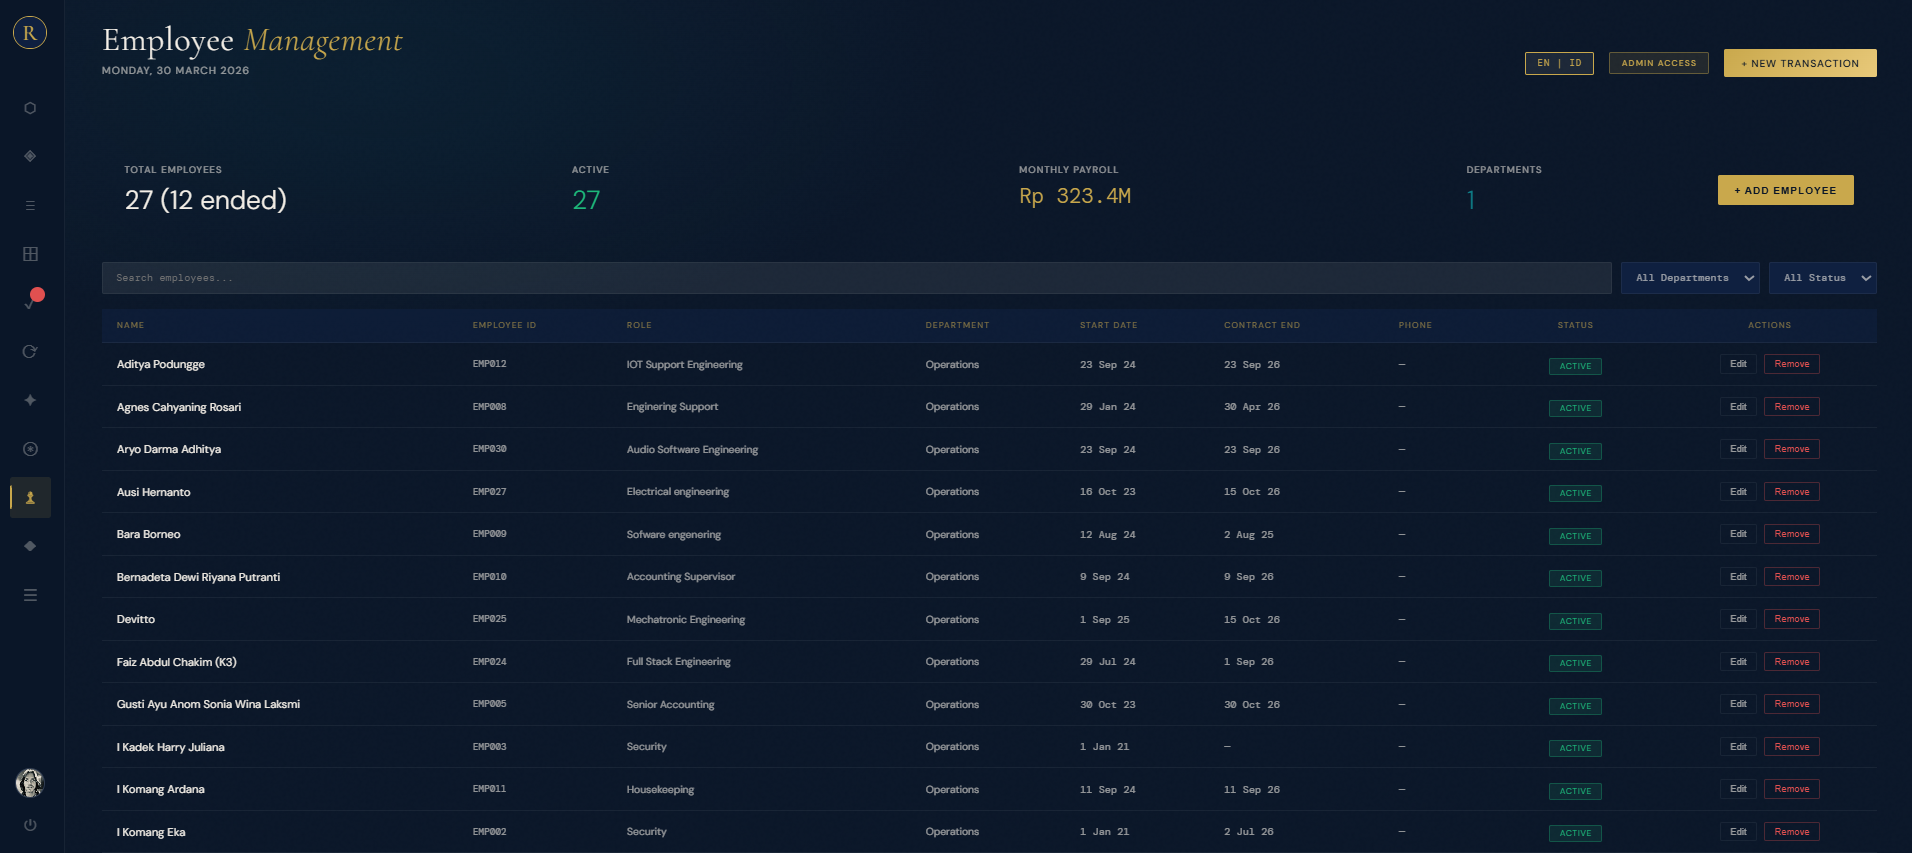
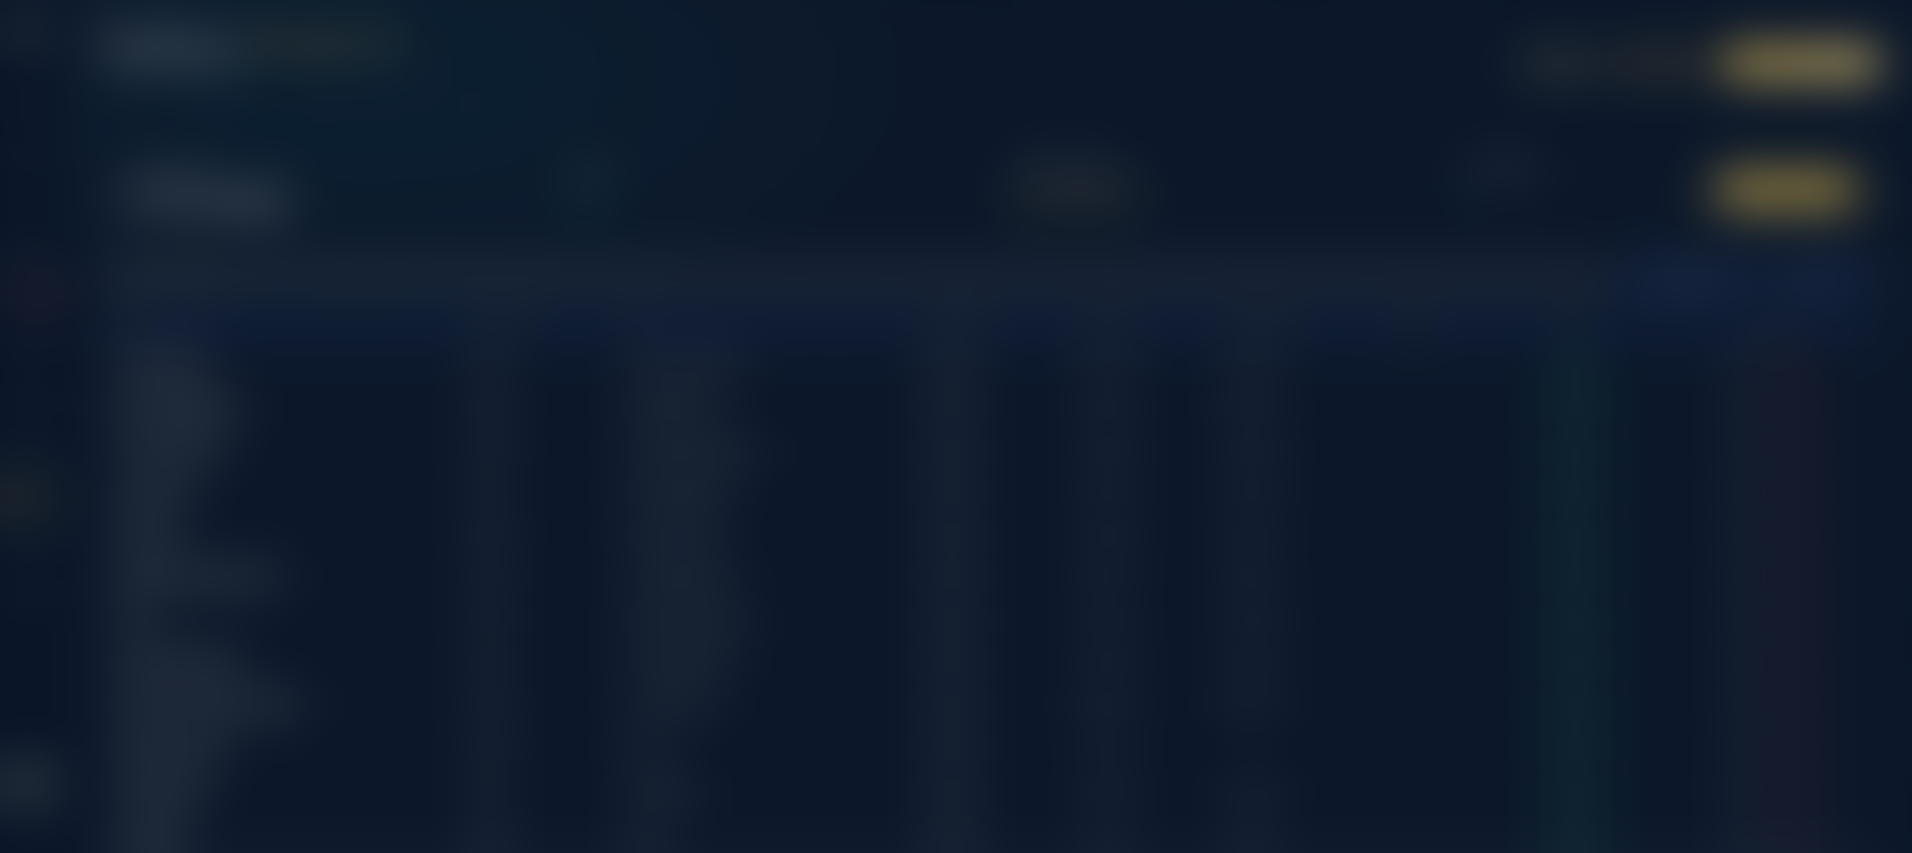
Anonymize hero images and keep About team-focused
Hero images now safe for public:
- bg-dashboard.png: heavy Gaussian blur (r=18). Original leaked
  employee names, IDs, and department details. Blurred version
  retains the navy+gold dashboard atmosphere but no text legible.
- bg-opex.png: blurred (r=12) for the same reason. Original showed
  real IDR line-item amounts. Blurred version keeps the chart
  shape as texture.
- bg-workflow.png: deleted entirely. No longer referenced anywhere,
  and the original n8n screenshot contained a red error popup plus
  real-looking bank account names and balances.

Revert About pages back to team-focused copy (EN + ID). Public
About stays about the collective team, not a named individual.
The separate /barrie/ page remains available for private sharing
when a personal intro is warranted.

diff --git a/about/index.html b/about/index.html
@@ -93,52 +93,6 @@
             line-height: 1.7;
         }
 
-        /* Founder block */
-        .founder-block {
-            display: grid;
-            grid-template-columns: 1fr;
-            gap: 40px;
-            align-items: center;
-            max-width: 920px;
-            margin: 0 auto;
-        }
-
-        .founder-media {
-            justify-self: center;
-        }
-
-        .founder-portrait {
-            width: 240px;
-            height: 240px;
-            border-radius: 50%;
-            object-fit: cover;
-            border: 3px solid rgba(201, 168, 76, 0.3);
-            box-shadow: 0 12px 32px rgba(26, 26, 46, 0.12);
-        }
-
-        .founder-body h2 {
-            margin-bottom: 12px;
-        }
-
-        .founder-tagline {
-            font-family: var(--font-display);
-            font-style: italic;
-            font-size: clamp(18px, 2vw, 22px);
-            color: var(--ink-heading);
-            margin-bottom: 24px;
-        }
-
-        .founder-body p {
-            font-size: clamp(16px, 1.6vw, 18px);
-            line-height: 1.85;
-            color: var(--ink);
-            margin-bottom: 20px;
-        }
-
-        .founder-body p:last-child {
-            margin-bottom: 0;
-        }
-
         @media (min-width: 600px) {
             .approach-grid {
                 grid-template-columns: 1fr 1fr;
@@ -149,18 +103,6 @@
         @media (min-width: 900px) {
             .approach-grid {
                 grid-template-columns: repeat(4, 1fr);
-            }
-            .founder-block {
-                grid-template-columns: 260px 1fr;
-                gap: 56px;
-                align-items: start;
-            }
-            .founder-media {
-                justify-self: start;
-            }
-            .founder-portrait {
-                width: 260px;
-                height: 260px;
             }
         }
     </style>
@@ -267,21 +209,17 @@
         </div>
     </section>
 
-    <!-- ==== FOUNDER ==== -->
+    <!-- ==== OUR TEAM ==== -->
     <section class="section section--paper">
         <div class="container">
-            <div class="founder-block reveal">
-                <div class="founder-media">
-                    <img src="../images/founder.jpg" alt="Barrie Elsden, Founder of Grand Vision Perspective" class="founder-portrait" width="260" height="260">
-                </div>
-                <div class="founder-body">
-                    <span class="eyebrow">Led by</span>
-                    <h2>Barrie Elsden</h2>
-                    <span class="gold-rule"></span>
-                    <p class="founder-tagline">Operations architecture and systems execution.</p>
-                    <p>Two decades working across franchises, startups, corporates, hospitality, construction, and conscious projects around the world. Based in Bali, partnering with businesses in Indonesia, Asia, and internationally.</p>
-                    <p>Every engagement is led directly, with hands-on experience in the domains we work across: finance operations, CRM and revenue systems, AI and data infrastructure, manufacturing coordination, and regulated industries.</p>
-                </div>
+            <div class="section-header reveal">
+                <span class="eyebrow">Our team</span>
+                <h2>International experience, grounded locally.</h2>
+                <span class="gold-rule"></span>
+            </div>
+            <div class="story-body reveal">
+                <p>Our team combines international strategic expertise with local operational knowledge. Working across Indonesia and Asia, we partner with businesses globally to design, build, and implement systems that last.</p>
+                <p>Every engagement is led by senior people with hands-on experience in the domains we work across: finance operations, CRM and revenue systems, AI and data infrastructure, manufacturing coordination, and regulated industries.</p>
             </div>
         </div>
     </section>

diff --git a/id/about/index.html b/id/about/index.html
@@ -35,22 +35,8 @@
         .approach-card h3::before { content: ''; display: block; width: 32px; height: 2px; background: var(--gold); margin-bottom: 14px; }
         .approach-card p { font-size: 15px; color: var(--ink-muted); line-height: 1.7; }
 
-        /* Founder block */
-        .founder-block { display: grid; grid-template-columns: 1fr; gap: 40px; align-items: center; max-width: 920px; margin: 0 auto; }
-        .founder-media { justify-self: center; }
-        .founder-portrait { width: 240px; height: 240px; border-radius: 50%; object-fit: cover; border: 3px solid rgba(201, 168, 76, 0.3); box-shadow: 0 12px 32px rgba(26, 26, 46, 0.12); }
-        .founder-body h2 { margin-bottom: 12px; }
-        .founder-tagline { font-family: var(--font-display); font-style: italic; font-size: clamp(18px, 2vw, 22px); color: var(--ink-heading); margin-bottom: 24px; }
-        .founder-body p { font-size: clamp(16px, 1.6vw, 18px); line-height: 1.85; color: var(--ink); margin-bottom: 20px; }
-        .founder-body p:last-child { margin-bottom: 0; }
-
         @media (min-width: 600px) { .approach-grid { grid-template-columns: 1fr 1fr; gap: 24px; } }
-        @media (min-width: 900px) {
-            .approach-grid { grid-template-columns: repeat(4, 1fr); }
-            .founder-block { grid-template-columns: 260px 1fr; gap: 56px; align-items: start; }
-            .founder-media { justify-self: start; }
-            .founder-portrait { width: 260px; height: 260px; }
-        }
+        @media (min-width: 900px) { .approach-grid { grid-template-columns: repeat(4, 1fr); } }
     </style>
 </head>
 <body>
@@ -151,18 +137,14 @@
 
     <section class="section section--paper">
         <div class="container">
-            <div class="founder-block reveal">
-                <div class="founder-media">
-                    <img src="../../images/founder.jpg" alt="Barrie Elsden, Founder Grand Vision Perspective" class="founder-portrait" width="260" height="260">
-                </div>
-                <div class="founder-body">
-                    <span class="eyebrow">Dipimpin oleh</span>
-                    <h2>Barrie Elsden</h2>
-                    <span class="gold-rule"></span>
-                    <p class="founder-tagline">Arsitektur operasional dan eksekusi sistem.</p>
-                    <p>Dua dekade bekerja di franchise, startup, korporat, perhotelan, konstruksi, dan proyek-proyek conscious di seluruh dunia. Berbasis di Bali, bermitra dengan bisnis di Indonesia, Asia, dan internasional.</p>
-                    <p>Setiap proyek dipimpin langsung, dengan pengalaman tangan di domain yang kami kerjakan: operasional keuangan, CRM dan sistem revenue, infrastruktur AI dan data, koordinasi manufaktur, serta industri yang teregulasi.</p>
-                </div>
+            <div class="section-header reveal">
+                <span class="eyebrow">Tim kami</span>
+                <h2>Pengalaman internasional, berakar lokal.</h2>
+                <span class="gold-rule"></span>
+            </div>
+            <div class="story-body reveal">
+                <p>Tim kami memadukan keahlian strategis internasional dengan pengetahuan operasional lokal. Bekerja di Indonesia dan Asia, kami bermitra dengan bisnis di seluruh dunia untuk merancang, membangun, dan mengimplementasikan sistem yang bertahan.</p>
+                <p>Setiap proyek dipimpin oleh orang-orang senior dengan pengalaman langsung di domain yang kami kerjakan: operasional keuangan, CRM dan sistem revenue, infrastruktur AI dan data, koordinasi manufaktur, serta industri yang teregulasi.</p>
             </div>
         </div>
     </section>
